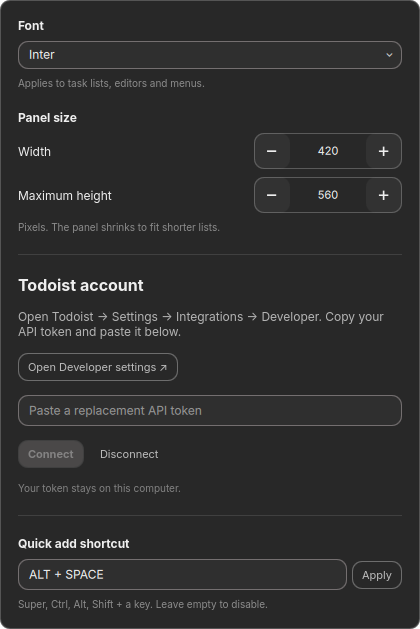
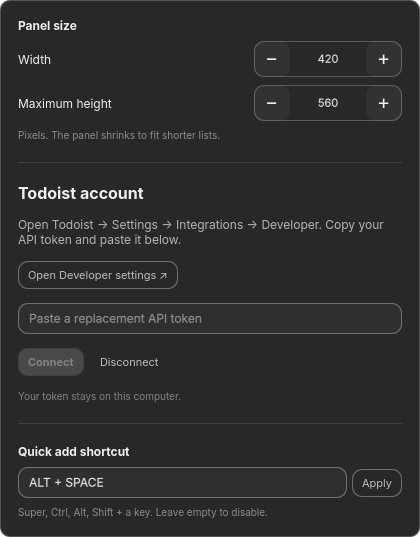
Match display panel typography and remove the font picker

diff --git a/tests/composer.qml b/tests/composer.qml
@@ -8,6 +8,8 @@ import "plugin" as Plugin
 import "plugin/ui" as Tasks
 
 ShellRoot {
+    QtObject { id: fontBar; property string fontFamily: Style.font.family }
+    QtObject { id: fontWidget; property var bar: fontBar }
     Plugin.Service {
         id: service
         enableShortcuts: false
@@ -47,7 +49,7 @@ ShellRoot {
         when: window.visible && Quickshell.env("TODOIST_CAPTURE_ONLY") !== "1"
         function cleanupTestCase() { console.log("COMPOSER UI RESULTS", qtest_results.passCount, "passed", qtest_results.failCount, "failed"); Qt.callLater(Qt.quit); }
         function cleanup() { console.log("TEST", qtest_results.functionName, qtest_results.failed ? "FAILED" : "PASSED"); }
-        function init() { composer.reset(); composer.editingTask = null; composer.submitting = false; composer.visible = true; inlineList.visible = false; inlineList.composerKey = ""; service.captured = []; composer.focusInput(); wait(30); }
+        function init() { service.widgets = [fontWidget]; fontBar.fontFamily = Style.font.family; composer.reset(); composer.editingTask = null; composer.submitting = false; composer.visible = true; inlineList.visible = false; inlineList.composerKey = ""; service.captured = []; composer.focusInput(); wait(30); }
         function enter(text) {
             var input = findChild(composer, "taskName");
             input.text = text; input.cursorPosition = text.length; composer.focusInput(); composer.updateToken(); wait(20);
@@ -127,16 +129,18 @@ ShellRoot {
             card.width = 360;
             enter("A long task name that wraps to another line tomorrow at 4pm p1 #Studio /Website @next");
             var input = findChild(composer, "taskName"); verify(input.contentHeight > input.font.pixelSize * 2);
-            service.setFontFamily("Inter"); wait(30); compare(input.font.family, "Inter");
+            fontBar.fontFamily = "Inter"; wait(30); compare(input.font.family, "Inter");
             verify(composer.highlightSpans.some(function(rect) { return rect.kind === "due" && rect.y > 0; }));
             verify(composer.highlightSpans.every(function(rect) { return rect.width > 0 && rect.x + rect.width <= input.width + 3; }));
             card.width = 560;
         }
-        function test_font_setting_applies_and_restores_default() {
-            var original = service.fontFamily; service.setFontFamily("Inter");
+        function test_fonts_inherit_bar_and_shell_ignoring_old_preferences() {
+            service.preferences = {fontFamily: "monospace"}; fontBar.fontFamily = "Inter";
             compare(composer.fontFamily, "Inter"); compare(findChild(composer, "taskName").font.family, "Inter");
-            compare(settings.fontFamily, "Inter"); compare(findChild(settings, "fontPicker").fontFamily, "Inter");
-            service.setFontFamily(""); compare(composer.fontFamily, original);
+            compare(settings.fontFamily, "Inter"); compare(inlineList.fontFamily, "Inter");
+            verify(findChild(settings, "fontPicker") === null);
+            fontBar.fontFamily = "sans-serif"; compare(composer.fontFamily, "sans-serif"); compare(settings.fontFamily, "sans-serif");
+            service.widgets = []; compare(composer.fontFamily, Style.font.family); compare(settings.fontFamily, Style.font.family);
         }
         function test_light_and_dark_highlight_colors() {
             var original = Color.popups.background;
@@ -182,7 +186,8 @@ ShellRoot {
                 Color.popups.border = scene.theme === "light" ? "#cccccc" : "#555555";
                 Color.foreground = Color.popups.text; Color.background = Color.popups.background;
                 Color.accent = scene.theme === "light" ? "#d1453b" : "#ff5c50";
-                service.preferences = Quickshell.env("TODOIST_CAPTURE_STAGE") === "before" ? {} : {fontFamily: "Inter"};
+                service.widgets = [fontWidget]; fontBar.fontFamily = "Inter";
+                service.preferences = {};
                 card.width = scene.width;
                 composer.reset(); composer.visible = !scene.settings; settings.visible = scene.settings;
                 composer.text = "Review tomorrow at 4pm !!1 #Studio /Website @next !30m {Friday}";

diff --git a/ui/Settings.qml b/ui/Settings.qml
@@ -9,24 +9,6 @@ ColumnLayout {
     readonly property string fontFamily: service.fontFamily
     spacing: Style.space(20)
     ColumnLayout {
-        Layout.fillWidth: true
-        spacing: Style.space(8)
-        Label { text: "Font"; font.family: root.fontFamily; font.bold: true }
-        UI.SearchableDropdown {
-            objectName: "fontPicker"
-            Layout.fillWidth: true
-            showLabel: false
-            placeholderText: "Search installed fonts…"
-            fontFamily: root.fontFamily
-            value: root.service.preferences.fontFamily || ""
-            options: [{value: "", label: "Follow bar font"}, {value: "sans-serif", label: "Sans serif"}].concat(Qt.fontFamilies().filter(function(family) {
-                return family !== "monospace" && family !== "sans-serif";
-            }).map(function(family) { return {value: family, label: family}; }))
-            onChanged: function(value) { root.service.setFontFamily(value); }
-        }
-        Label { Layout.fillWidth: true; text: "Applies to task lists, editors and menus."; font.family: root.fontFamily; font.pixelSize: Style.font.caption; opacity: 0.5; wrapMode: Text.WordWrap; elide: Text.ElideNone }
-    }
-    ColumnLayout {
         visible: root.service.configured
         Layout.fillWidth: true
         spacing: Style.space(8)

diff --git a/Service.qml b/Service.qml
@@ -43,8 +43,8 @@ Item {
     property int syncFailures: 0
     property date now: clock.date
     property var widgets: []
-    // Like the display panel, inherit the bar font unless locally overridden.
-    readonly property string fontFamily: preferences.fontFamily || (widgets.length && widgets[0].bar ? widgets[0].bar.fontFamily : Style.font.family)
+    // Match omarchy-hyprmoncfg: inherit the bar font, with the shell fallback.
+    readonly property string fontFamily: widgets.length && widgets[0].bar ? widgets[0].bar.fontFamily : Style.font.family
     readonly property bool configured: token.length > 0
     readonly property var projectMap: Model.byId(projects)
     readonly property var sectionMap: Model.byId(sections)
@@ -94,14 +94,6 @@ Item {
         if (!isFinite(next[key])) return;
         preferences = next;
         if (storageReady) settingsFile.setText(JSON.stringify(preferences));
-    }
-    function setFontFamily(value) {
-        if (typeof value !== "string") return;
-        var next = Object.assign({}, preferences);
-        if (value.trim()) next.fontFamily = value.trim();
-        else delete next.fontFamily;
-        preferences = next;
-        if (storageReady) settingsFile.setText(JSON.stringify(next));
     }
     function cancelRequests() {
         nextSyncRetry = 0;

diff --git a/README.md b/README.md
@@ -42,10 +42,9 @@ Temporary sync failures retry automatically after 5 seconds, with increasing del
 
 The settings button opens panel size, account, and shortcut settings inside the panel. Disconnect clears the saved token and account data.
 
-**Settings → Font** lets you search installed fonts and use a proportional face
-such as **Inter** or **Sans serif**. It applies immediately to task lists, both
-task editors, menus, and settings, and is saved in `views.json`. Choose **Follow
-bar font** to inherit the bar's font, as the display configuration panel does.
+Task lists, both task editors, menus, and settings inherit the bar's font,
+matching `omarchy-hyprmoncfg`. When no bar is available, they use the shell's
+default font. OmaTasks has no separate font setting.
 
 ## Quick add
 
@@ -70,7 +69,7 @@ Tasks go to Inbox unless you choose a project. Inline additions in Today start w
 - Recognized shortcuts stay highlighted in the task name and update the property chips as you type or paste. Dates use Todoist's red inline highlight; priorities use their red, orange, or blue highlight. The same behavior applies to the popup and inline editor. Long task names wrap.
 - Todoist's Quick Add API uses the official apps' parser when saving. Live previews recognize common English dates and times, relative dates, recurrence, projects, sections, priorities, labels, assignees, reminders, deadlines, and durations on timed tasks. Other date expressions and account languages still go to Todoist unchanged. **No date** removes Today's default schedule. Reminder availability follows your Todoist plan.
 
-The layout follows Todoist’s [Quick Add design comparison](https://www.todoist.com/help/todoist/product-updates/a-cleaner-simpler-quick-add-june-29-PuIpiLmLh), with Omarchy’s theme and your chosen font. See Todoist’s [Quick Add guide](https://www.todoist.com/help/todoist/features/use-task-quick-add-in-todoist-va4Lhpzz) and [API syntax reference](https://developer.todoist.com/api/v1/#tag/Tasks/operation/quick_add_api_v1_tasks_quick_post) for its input syntax.
+The layout follows Todoist’s [Quick Add design comparison](https://www.todoist.com/help/todoist/product-updates/a-cleaner-simpler-quick-add-june-29-PuIpiLmLh), with Omarchy’s theme and bar font. See Todoist’s [Quick Add guide](https://www.todoist.com/help/todoist/features/use-task-quick-add-in-todoist-va4Lhpzz) and [API syntax reference](https://developer.todoist.com/api/v1/#tag/Tasks/operation/quick_add_api_v1_tasks_quick_post) for its input syntax.
 
 **Escape** closes. A failed request preserves the text so you can retry. Dismissing quick add also preserves its draft for the next opening; Cancel discards it. These drafts last for the shell session.
 
@@ -165,7 +164,7 @@ For a baseline, set `TODOIST_SOURCE` to a separate copy of the earlier revision
 and `TODOIST_CAPTURE_STAGE=before`. Captures contain synthetic data only.
 
 <details>
-<summary>Before-and-after input and font screenshots</summary>
+<summary>Before-and-after input and settings screenshots</summary>
 
 | View | Before | After |
 | --- | --- | --- |
